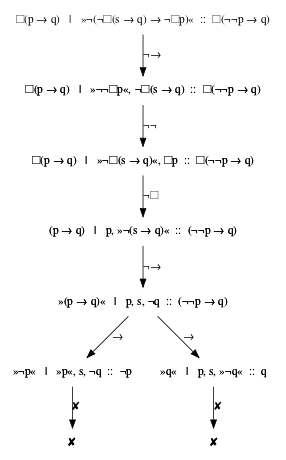
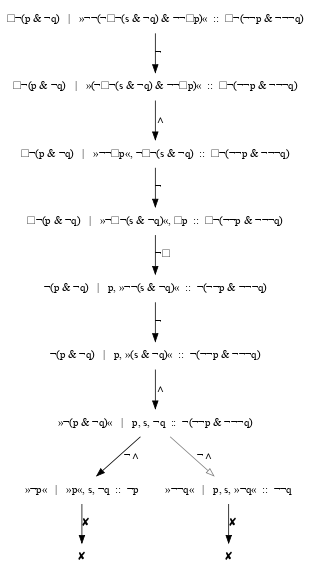
readme: update BML example, → is no longer a primitve

diff --git a/README.md b/README.md
@@ -25,14 +25,14 @@ once [replacing atoms by constants](src/Logic/Propositional/Interpolation/Naive.
     False
     
     stack ghci src/Logic/BasicModal/Interpolation/ProofTree.hs
-    λ> let (f,g) = ( Box (Imp (At 'p') (At 'q')) , Imp (Neg (Box (Imp (At 's') (At 'q')))) (Neg (Box (At 'p'))) )
+    λ> let (f,g) = ( Box ((At 'p') --> (At 'q')) , (Neg (Box ((At 's') --> (At 'q')))) --> (Neg (Box (At 'p'))) )
     λ> mapM_ (putStrLn .ppForm) [f, g]
-    ☐(p → q)
-    (¬☐(s → q) → ¬☐p)
+    ☐¬(p & ¬q)
+    ¬(¬☐¬(s & ¬q) & ¬¬☐p)
     λ> interpolateShow (f,g)
     Showing tableau with GraphViz ...
-    Interpolant: ☐(¬¬p → q)
-    Simplified interpolant: ☐(p → q)
+    Interpolant: ☐¬(¬¬p & ¬¬¬q)
+    Simplified interpolant: ☐¬(p & ¬q)
 
 The last command will also show this tableau:
 
